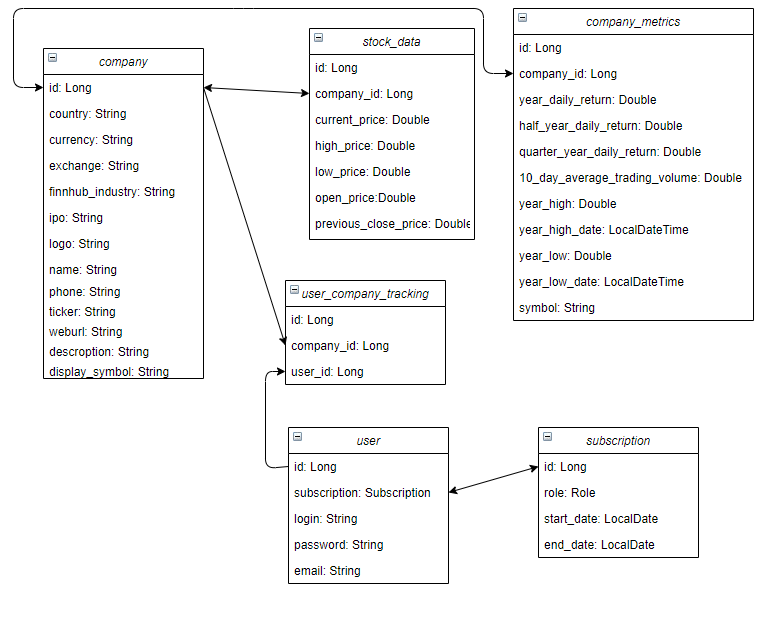
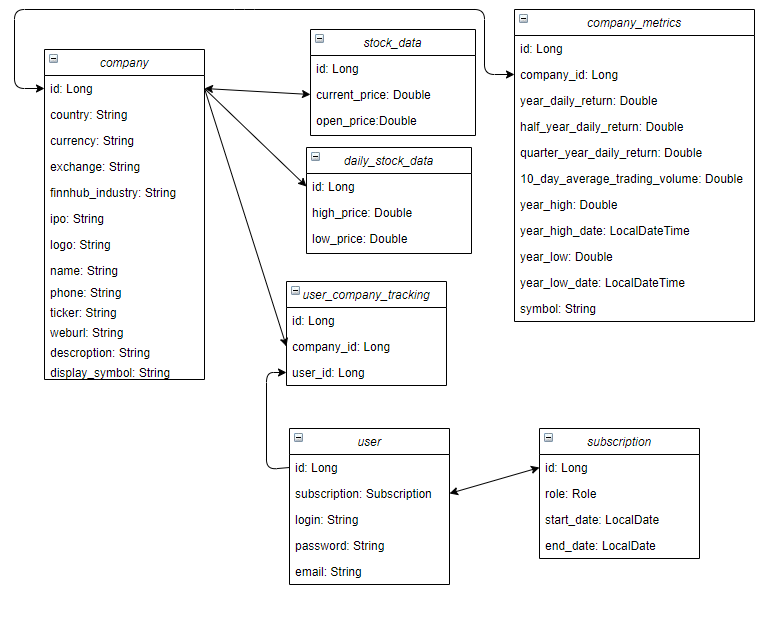
stock data divided for tracking all min/max stock data daily and open/current price with some periodicity

diff --git a/src/main/java/com/gmail/kirilllapitsky/finnhub/service/fetching/FetchingServiceImpl.java b/src/main/java/com/gmail/kirilllapitsky/finnhub/service/fetching/FetchingServiceImpl.java
@@ -6,18 +6,24 @@ import com.gmail.kirilllapitsky.finnhub.dto.ParsedCompanyMetrics;
 import com.gmail.kirilllapitsky.finnhub.dto.ParsedStockData;
 import com.gmail.kirilllapitsky.finnhub.entity.Company;
 import com.gmail.kirilllapitsky.finnhub.entity.CompanyMetrics;
+import com.gmail.kirilllapitsky.finnhub.entity.DailyStockData;
 import com.gmail.kirilllapitsky.finnhub.entity.StockData;
 import com.gmail.kirilllapitsky.finnhub.exception.NoSuchEntityException;
 import com.gmail.kirilllapitsky.finnhub.feignClient.CompanyFeignClient;
 import com.gmail.kirilllapitsky.finnhub.repository.CompanyMetricsRepository;
 import com.gmail.kirilllapitsky.finnhub.repository.CompanyRepository;
+import com.gmail.kirilllapitsky.finnhub.repository.DailyStockDataRepository;
 import com.gmail.kirilllapitsky.finnhub.repository.StockDataRepository;
 import com.gmail.kirilllapitsky.finnhub.utils.FetchingObjectsMapper;
 import lombok.AllArgsConstructor;
+import org.springframework.data.domain.Page;
+import org.springframework.data.domain.PageRequest;
+import org.springframework.data.domain.Pageable;
 import org.springframework.scheduling.annotation.Scheduled;
 import org.springframework.stereotype.Service;
 
 import java.util.List;
+import java.util.stream.Collectors;
 
 import static com.gmail.kirilllapitsky.finnhub.utils.FetchingObjectsMapper.*;
 
@@ -28,45 +34,55 @@ public class FetchingServiceImpl implements FetchingService {
     private final CompanyRepository companyRepository;
     private final CompanyMetricsRepository companyMetricsRepository;
     private final StockDataRepository stockDataRepository;
+    private final DailyStockDataRepository dailyStockDataRepository;
 
     @Override
     public void fetchAllCompanies() {
         List<ParsedCompany> parsedCompanies = companyFeignClient.fetchAllCompanies();
-        parsedCompanies
+
+        List<Company> companies = parsedCompanies
                 .stream()
                 .map(FetchingObjectsMapper::companyMapper)
                 .limit(100)
-                .forEach(companyRepository::save);
+                .collect(Collectors.toList());
+        companyRepository.saveAll(companies);
     }
 
     @Override
     public void fetchAllCompaniesInfo() {
         List<Company> companies = companyRepository.findAll();
 
-        companies
+        List<Company> updatedCompanies = companies
                 .stream()
-                .map(company -> companyInfoMapper(company, companyFeignClient.fetchCompanyInfo(company.getDisplaySymbol())))
-                .forEach(companyRepository::save);
+                .map(company -> companyInfoMapper(
+                        company,
+                        companyFeignClient.fetchCompanyInfo(company.getDisplaySymbol()))
+                )
+                .collect(Collectors.toList());
+        companyRepository.saveAll(updatedCompanies);
+
     }
 
     @Override
     public void fetchAllCompaniesMetrics() {
         List<Company> companies = companyRepository.findAll();
 
-        companies
+        List<CompanyMetrics> companyMetrics = companies
                 .stream()
                 .map(company -> companyMetricsMapper(company, companyFeignClient.fetchCompanyMetrics(company.getDisplaySymbol())))
-                .forEach(companyMetricsRepository::save);
+                .collect(Collectors.toList());
+        companyMetricsRepository.saveAll(companyMetrics);
     }
 
     @Override
     public void fetchAllCompaniesStockData() {
         List<Company> companies = companyRepository.findAll();
 
-        companies
+        List<StockData> stockDataList = companies
                 .stream()
                 .map(company -> stockDataMapper(company, companyFeignClient.fetchCompanyStockData(company.getDisplaySymbol())))
-                .forEach(stockDataRepository::save);
+                .collect(Collectors.toList());
+        stockDataRepository.saveAll(stockDataList);
     }
 
     @Override
@@ -98,37 +114,82 @@ public class FetchingServiceImpl implements FetchingService {
 
         ParsedCompanyInfo parsedCompanyInfo = companyFeignClient.fetchCompanyInfo(displaySymbol);
 
-        company = companyInfoMapper(company, parsedCompanyInfo);
+        companyInfoMapper(company, parsedCompanyInfo);
         companyRepository.save(company);
     }
 
     @Scheduled(cron = "0 0 0 * * 0", zone = "Europe/Moscow")
     public void refreshCompanyMetrics() {
-        List<CompanyMetrics> companyMetricsList = companyMetricsRepository.findAll();
-
-        companyMetricsList
-                .stream()
-                .map(companyMetrics -> companyRenewableMetricsMapper(companyMetrics, companyFeignClient.fetchCompanyMetrics(companyMetrics.getCompany().getDisplaySymbol())))
-                .forEach(companyMetricsRepository::save);
+        int page = 0;
+        int pageSize = 100;
+        Pageable pageable;
+        while (true) {
+            pageable = PageRequest.of(page, pageSize);
+            Page<CompanyMetrics> resultPage = companyMetricsRepository.findAll(pageable);
+            if (!resultPage.isEmpty()) {
+                List<CompanyMetrics> companiesMetrics = resultPage.getContent()
+                        .stream()
+                        .map(companyMetrics -> renewableCompanyMetricsMapper(
+                                companyMetrics,
+                                companyFeignClient.fetchCompanyMetrics(companyMetrics.getCompany().getDisplaySymbol())
+                                )
+                        )
+                        .collect(Collectors.toList());
+                companyMetricsRepository.saveAll(companiesMetrics);
+                page++;
+            } else {
+                return;
+            }
+        }
     }
 
-    @Scheduled(cron = "0 */10 0 * * *", zone = "Europe/Moscow")
-    public void refreshStockData() {
-        List<StockData> stockDataList = stockDataRepository.findAll();
 
-        stockDataList
-                .stream()
-                .map(stockData -> renewableStockDataMapper(stockData, companyFeignClient.fetchCompanyStockData(stockData.getCompany().getDisplaySymbol())))
-                .forEach(stockDataRepository::save);
+    @Scheduled(cron = "0 */30 * * * *", zone = "Europe/Moscow")
+    public void refreshStockData() {
+        int page = 0;
+        int pageSize = 100;
+        Pageable pageable;
+        while (true) {
+            pageable = PageRequest.of(page, pageSize);
+            Page<Company> resultPage = companyRepository.findAll(pageable);
+            if (!resultPage.isEmpty()) {
+                List<StockData> companies = resultPage.getContent()
+                        .stream()
+                        .map(company -> stockDataMapper(company,
+                                companyFeignClient.fetchCompanyStockData(company.getDisplaySymbol())
+                                )
+                        )
+                        .collect(Collectors.toList());
+                stockDataRepository.saveAll(companies);
+                page++;
+            } else {
+                return;
+            }
+        }
     }
 
     @Scheduled(cron = "0 0 0 * * *", zone = "Europe/Moscow")
     public void dailyRefreshStockData() {
-        List<StockData> stockDataList = stockDataRepository.findAll();
-
-        stockDataList
-                .stream()
-                .map(stockData -> dailyRenewableStockDataMapper(stockData, companyFeignClient.fetchCompanyStockData(stockData.getCompany().getDisplaySymbol())))
-                .forEach(stockDataRepository::save);
+        int page = 0;
+        int pageSize = 100;
+        Pageable pageable;
+        while (true) {
+            pageable = PageRequest.of(page, pageSize);
+            Page<Company> resultPage = companyRepository.findAll(pageable);
+            if (!resultPage.isEmpty()) {
+                List<DailyStockData> companies = resultPage.getContent()
+                        .stream()
+                        .map(company -> dailyStockDataMapper(company,
+                                companyFeignClient.fetchCompanyStockData(company.getDisplaySymbol())
+                                )
+                        )
+                        .collect(Collectors.toList());
+                dailyStockDataRepository.saveAll(companies);
+                page++;
+            } else {
+                return;
+            }
+        }
     }
+
 }

diff --git a/src/main/java/com/gmail/kirilllapitsky/finnhub/utils/FetchingObjectsMapper.java b/src/main/java/com/gmail/kirilllapitsky/finnhub/utils/FetchingObjectsMapper.java
@@ -3,7 +3,10 @@ package com.gmail.kirilllapitsky.finnhub.utils;
 import com.gmail.kirilllapitsky.finnhub.dto.*;
 import com.gmail.kirilllapitsky.finnhub.entity.Company;
 import com.gmail.kirilllapitsky.finnhub.entity.CompanyMetrics;
+import com.gmail.kirilllapitsky.finnhub.entity.DailyStockData;
 import com.gmail.kirilllapitsky.finnhub.entity.StockData;
+
+import java.time.LocalDateTime;
 
 public class FetchingObjectsMapper {
 
@@ -17,21 +20,15 @@ public class FetchingObjectsMapper {
     }
 
     public static Company companyInfoMapper(Company company, ParsedCompanyInfo parsedCompanyInfo) {
-        return Company.
-                builder()
-                .id(company.getId())
-                .currency(company.getCurrency())
-                .description(company.getDescription())
-                .displaySymbol(company.getDisplaySymbol())
-                .country(parsedCompanyInfo.getCountry())
-                .exchange(parsedCompanyInfo.getExchange())
-                .finnhubIndustry(parsedCompanyInfo.getExchange())
-                .ipo(parsedCompanyInfo.getIpo())
-                .logo(parsedCompanyInfo.getLogo())
-                .name(parsedCompanyInfo.getName())
-                .ticker(parsedCompanyInfo.getTicker())
-                .webUrl(parsedCompanyInfo.getWeburl())
-                .build();
+        company.setCountry(parsedCompanyInfo.getCountry());
+        company.setExchange(parsedCompanyInfo.getExchange());
+        company.setFinnhubIndustry(parsedCompanyInfo.getFinnhubIndustry());
+        company.setIpo(parsedCompanyInfo.getIpo());
+        company.setLogo(parsedCompanyInfo.getLogo());
+        company.setName(parsedCompanyInfo.getName());
+        company.setTicker(parsedCompanyInfo.getTicker());
+        company.setWebUrl(parsedCompanyInfo.getWeburl());
+        return company;
     }
 
     public static CompanyMetrics companyMetricsMapper(Company company, ParsedCompanyMetrics parsedCompanyMetrics) {
@@ -50,21 +47,18 @@ public class FetchingObjectsMapper {
                 .build();
     }
 
-    public static CompanyMetrics companyRenewableMetricsMapper(CompanyMetrics companyMetrics, ParsedCompanyMetrics parsedCompanyMetrics) {
+    public static CompanyMetrics renewableCompanyMetricsMapper(CompanyMetrics companyMetrics, ParsedCompanyMetrics parsedCompanyMetrics) {
         ParsedMetrics parsedMetrics = parsedCompanyMetrics.getParsedMetrics();
-        return CompanyMetrics
-                .builder()
-                .id(companyMetrics.getId())
-                .company(companyMetrics.getCompany())
-                .yearDailyReturn(parsedMetrics.getYearDailyReturn())
-                .halfYearDailyReturn(parsedMetrics.getHalfYearDailyReturn())
-                .quarterYearDailyReturn(parsedMetrics.getQuarterYearDailyReturn())
-                .tenDayAverageTradingVolume(parsedMetrics.getTenDayAverageTradingVolume())
-                .yearHigh(parsedMetrics.getYearHigh())
-                .yearHighDate(parsedMetrics.getYearHighDate())
-                .yearLow(parsedMetrics.getYearLow())
-                .yearLowDate(parsedMetrics.getYearLowDate())
-                .build();
+        companyMetrics.setYearDailyReturn(parsedMetrics.getYearDailyReturn());
+        companyMetrics.setHalfYearDailyReturn(parsedMetrics.getHalfYearDailyReturn());
+        companyMetrics.setQuarterYearDailyReturn(parsedMetrics.getQuarterYearDailyReturn());
+        companyMetrics.setTenDayAverageTradingVolume(parsedMetrics.getTenDayAverageTradingVolume());
+        companyMetrics.setYearHigh(parsedMetrics.getYearHigh());
+        companyMetrics.setYearHighDate(parsedMetrics.getYearHighDate());
+        companyMetrics.setYearLow(parsedMetrics.getYearLow());
+        companyMetrics.setYearLowDate(parsedMetrics.getYearLowDate());
+        return companyMetrics;
+
     }
 
     public static StockData stockDataMapper(Company company, ParsedStockData parsedStockData) {
@@ -72,37 +66,18 @@ public class FetchingObjectsMapper {
                 .builder()
                 .company(company)
                 .currentPrice(parsedStockData.getCurrentPrice())
-                .highPrice(parsedStockData.getHighPrice())
-                .lowPrice(parsedStockData.getLowPrice())
                 .openPrice(parsedStockData.getOpenPrice())
+                .trackTime(LocalDateTime.now())
                 .build();
     }
 
-    public static StockData renewableStockDataMapper(StockData stockData, ParsedStockData parsedStockData) {
-        return StockData
+    public static DailyStockData dailyStockDataMapper(Company company, ParsedStockData parsedStockData) {
+        return DailyStockData
                 .builder()
-                .id(stockData.getId())
-                .company(stockData.getCompany())
-                .currentPrice(parsedStockData.getCurrentPrice())
-                .highPrice(stockData.getHighPrice())
-                .lowPrice(stockData.getLowPrice())
-                .openPrice(parsedStockData.getOpenPrice())
-                .dailyMaxPercentageChange(stockData.getDailyMaxPercentageChange())
-                .dailyMinPercentageChange(stockData.getDailyMinPercentageChange())
-                .build();
-    }
-
-    public static StockData dailyRenewableStockDataMapper(StockData stockData, ParsedStockData parsedStockData) {
-        return StockData
-                .builder()
-                .id(stockData.getId())
-                .company(stockData.getCompany())
-                .currentPrice(parsedStockData.getCurrentPrice())
+                .company(company)
                 .highPrice(parsedStockData.getHighPrice())
                 .lowPrice(parsedStockData.getLowPrice())
-                .openPrice(parsedStockData.getOpenPrice())
-                .dailyMaxPercentageChange((parsedStockData.getHighPrice() - stockData.getHighPrice()) / stockData.getHighPrice())
-                .dailyMinPercentageChange((parsedStockData.getLowPrice() - stockData.getLowPrice()) / stockData.getLowPrice())
+                .trackTime(LocalDateTime.now())
                 .build();
     }
 }

diff --git a/src/main/java/com/gmail/kirilllapitsky/finnhub/entity/DailyStockData.java b/src/main/java/com/gmail/kirilllapitsky/finnhub/entity/DailyStockData.java
@@ -9,12 +9,12 @@ import javax.persistence.*;
 import java.time.LocalDateTime;
 
 @Entity
-@Table(name = "\"stock_data\"")
+@Table(name = "\"daily_stock_data\"")
 @Data
 @Builder
 @AllArgsConstructor
 @NoArgsConstructor
-public class StockData {
+public class DailyStockData {
     @Id
     @GeneratedValue(strategy = GenerationType.IDENTITY)
     @Column(name = "id")
@@ -22,10 +22,10 @@ public class StockData {
     @ManyToOne
     @JoinColumn(name = "company_id")
     private Company company;
-    @Column(name = "current_price")
-    private Double currentPrice;
-    @Column(name = "open_price")
-    private Double openPrice;
+    @Column(name = "high_price")
+    private Double highPrice;
+    @Column(name = "low_price")
+    private Double lowPrice;
     @Column(name = "track_time")
     private LocalDateTime trackTime;
 }

diff --git a/src/main/java/com/gmail/kirilllapitsky/finnhub/entity/Company.java b/src/main/java/com/gmail/kirilllapitsky/finnhub/entity/Company.java
@@ -44,4 +44,8 @@ public class Company {
     private String description;
     @ManyToMany(mappedBy = "trackingCompanies")
     private Set<User> trackingUsers = new HashSet<>();
+    @OneToMany(mappedBy = "company")
+    private Set<StockData> companyStockData = new HashSet<>();
+    @OneToMany(mappedBy = "company")
+    private Set<DailyStockData> dailyStockData = new HashSet<>();
 }

diff --git a/src/main/java/com/gmail/kirilllapitsky/finnhub/repository/DailyStockDataRepository.java b/src/main/java/com/gmail/kirilllapitsky/finnhub/repository/DailyStockDataRepository.java
@@ -1,0 +1,9 @@
+package com.gmail.kirilllapitsky.finnhub.repository;
+
+import com.gmail.kirilllapitsky.finnhub.entity.DailyStockData;
+import org.springframework.data.jpa.repository.JpaRepository;
+import org.springframework.stereotype.Repository;
+
+@Repository
+public interface DailyStockDataRepository extends JpaRepository<DailyStockData, Long> {
+}
